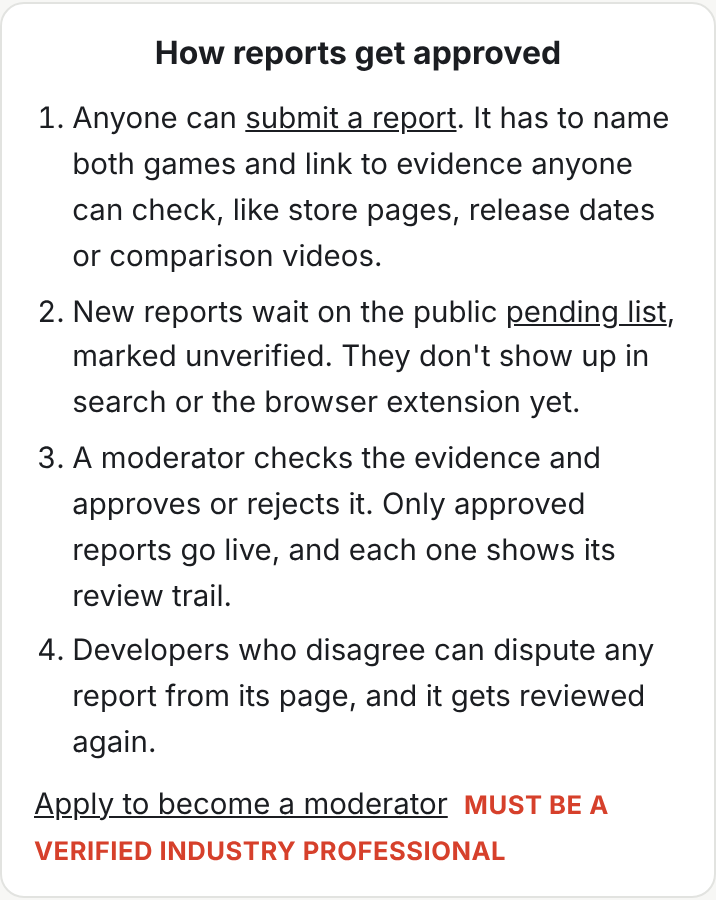
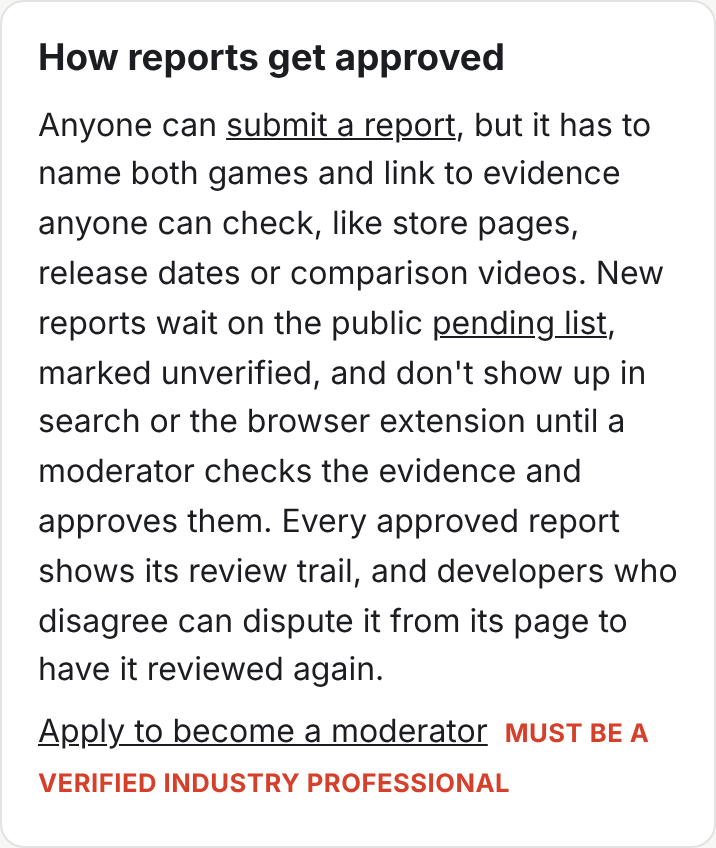
Move the report approval explanation above Recently added as one paragraph
Claude-Session: https://claude.ai/code/session_01CH7YEqxSCswzWE4LxcDNt7

Changed region(s): [[0.0307, 0.1226, 0.9525, 0.9811], [0.0307, 0.0307, 0.7989, 0.092]]

diff --git a/views.js b/views.js
@@ -95,18 +95,13 @@ function home(recent, total, originals = 0) {
   </form>
   <p class="muted">${total ? `<a href="/clones">Browse ${total.toLocaleString('en-US')} reported clone${total === 1 ? '' : 's'}</a>` : 'No approved reports'} so far. Was your game cloned? <a href="/submit">Report it</a>.</p>
   ${originals ? `<p class="muted"><a href="/originals">Browse ${originals.toLocaleString('en-US')} original games</a> from Steam, the Nintendo eShop and classic consoles that are not clones.</p>` : ''}
-  <div class="how-approved">
-    <h2>How reports get approved</h2>
-    <ol>
-      <li>Anyone can <a href="/submit">submit a report</a>. It has to name both games and link to evidence anyone can check, like store pages, release dates or comparison videos.</li>
-      <li>New reports wait on the public <a href="/pending">pending list</a>, marked unverified. They don't show up in search or the browser extension yet.</li>
-      <li>A moderator checks the evidence and approves or rejects it. Only approved reports go live, and each one shows its review trail.</li>
-      <li>Developers who disagree can dispute any report from its page, and it gets reviewed again.</li>
-    </ol>
-    <p><a href="/moderators/apply">Apply to become a moderator</a> <strong class="req">MUST BE A VERIFIED INDUSTRY PROFESSIONAL</strong></p>
-  </div>
 </section>
 ${extPromo({ example: true })}
+<section class="how-approved">
+  <h2>How reports get approved</h2>
+  <p>Anyone can <a href="/submit">submit a report</a>, but it has to name both games and link to evidence anyone can check, like store pages, release dates or comparison videos. New reports wait on the public <a href="/pending">pending list</a>, marked unverified, and don't show up in search or the browser extension until a moderator checks the evidence and approves them. Every approved report shows its review trail, and developers who disagree can dispute it from its page to have it reviewed again.</p>
+  <p><a href="/moderators/apply">Apply to become a moderator</a> <strong class="req">MUST BE A VERIFIED INDUSTRY PROFESSIONAL</strong></p>
+</section>
 ${recent.length ? `<h2>Recently added</h2><ul class="cards">${recent.map(card).join('')}</ul>` : ''}`);
 }
 

diff --git a/public/style.css b/public/style.css
@@ -158,10 +158,8 @@ code { font-family: ui-monospace, SFMono-Regular, Menlo, monospace; font-size: .
 .card.pending { border-style: dashed; }
 .trail-steps { margin: 0 0 8px; padding-left: 1.3em; }
 .trail-steps li { margin: 4px 0; }
-.how-approved { max-width: 640px; margin: 14px auto 0; text-align: left; background: var(--card); border: 1px solid var(--line); border-radius: 12px; padding: 10px 16px; font-size: .92rem; }
-.how-approved h2 { font-size: 1rem; margin: 2px 0 0; text-align: center; }
-.how-approved ol { margin: 10px 0 6px; padding-left: 1.3em; }
-.how-approved li { margin: 5px 0; }
-.how-approved p { margin: 8px 0 2px; }
+.how-approved { margin: 28px 0 0; background: var(--card); border: 1px solid var(--line); border-radius: 12px; padding: 14px 18px; }
+.how-approved h2 { margin: 0 0 6px; }
+.how-approved p { margin: 6px 0; }
 .req { color: var(--accent); font-size: .8rem; letter-spacing: .02em; margin-left: 4px; }
 .req-banner { border-left: 4px solid var(--accent); background: var(--card); padding: 10px 14px; border-radius: 6px; }

diff --git a/test/app.test.js b/test/app.test.js
@@ -285,6 +285,8 @@ test('home page explains how reports get approved and links to moderator applica
   const home = await (await fetch(base + '/')).text();
   assert.match(home, /How reports get approved/);
   assert.match(home, /href="\/pending"/);
+  assert.match(home, /How reports get approved<\/h2>\s*<p>[\s\S]*<\/section>\s*<h2>Recently added/, 'one paragraph, right above Recently added');
+  assert.doesNotMatch(home, /class="how-approved"[\s\S]{0,200}<ol>/);
   assert.match(home, /href="\/moderators\/apply">Apply to become a moderator<\/a>[\s\S]{0,80}MUST BE A VERIFIED INDUSTRY PROFESSIONAL/);
   const apply = await (await fetch(base + '/moderators/apply')).text();
   assert.match(apply, /MUST BE A VERIFIED INDUSTRY PROFESSIONAL/);
